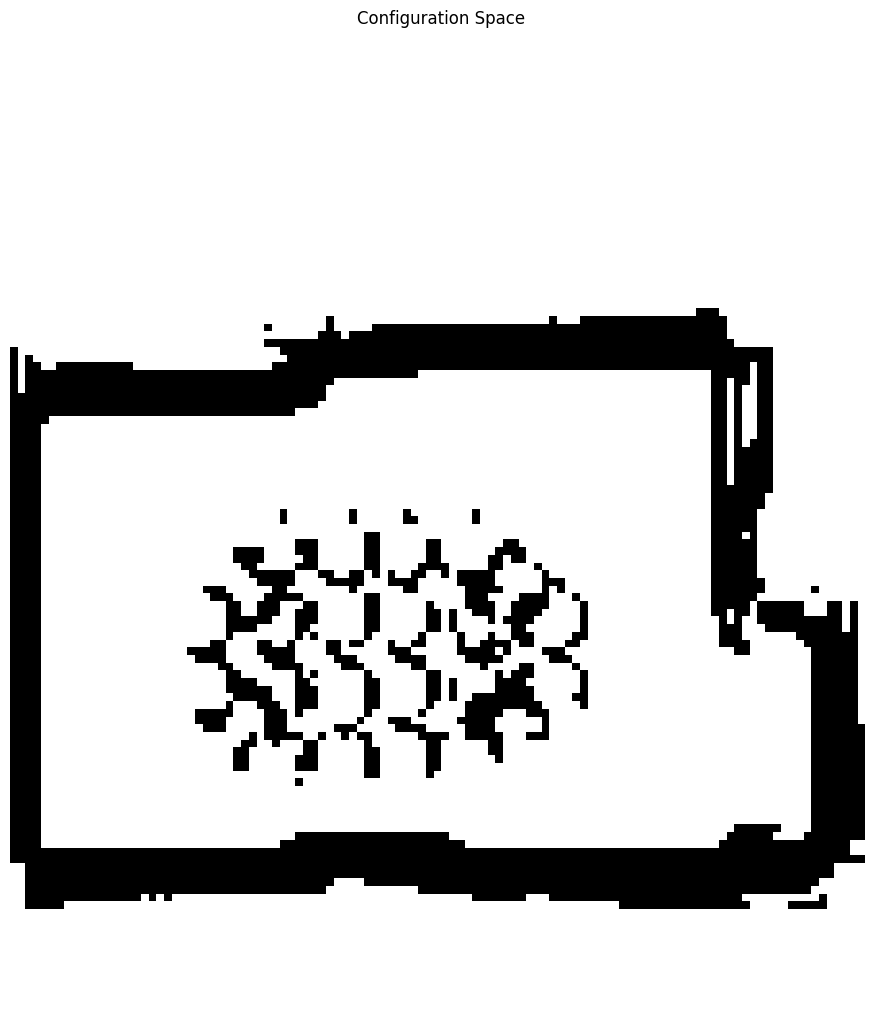
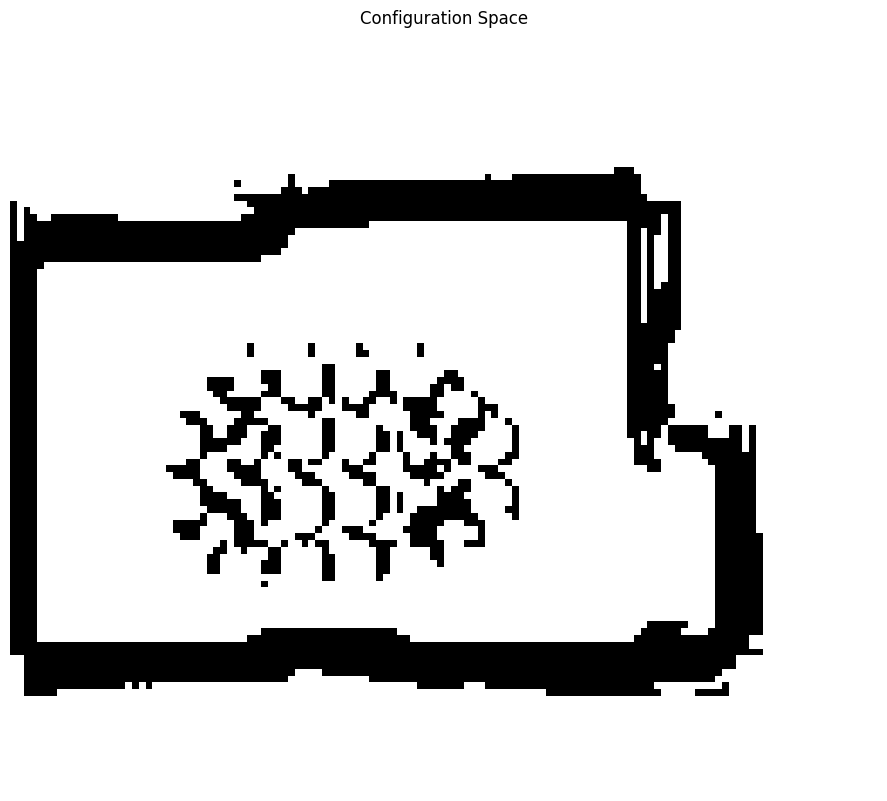
Brasenham Line mapping

Changed region(s): [[0.0, 0.1873, 0.9796, 0.9051], [0.398, 0.0, 0.6122, 0.0312]]

diff --git a/Mapping/controllers/my_brasenham_controller/my_brasenham_controller.py b/Mapping/controllers/my_brasenham_controller/my_brasenham_controller.py
@@ -53,8 +53,8 @@ class ProbabilisticOccupancyMap:
     GRID_HEIGHT = int(np.ceil(MAP_Y_DIM_METERS / MAP_RESOLUTION)) # GRID_HEIGHT now refers to Y-dimension
 
     # Log-odds update values
-    LOG_ODDS_OCCUPIED = np.log(0.99 / 0.01)
-    LOG_ODDS_FREE = np.log(0.01 / 0.99)
+    LOG_ODDS_OCCUPIED = np.log(0.9 / 0.1)
+    LOG_ODDS_FREE = np.log(0.1 / 0.9) / 10.0
     LOG_ODDS_CLAMP_MAX = 5.0
     LOG_ODDS_CLAMP_MIN = -5.0
 
@@ -66,7 +66,7 @@ class ProbabilisticOccupancyMap:
     OUTPUT_DIR = "map_outputs"
 
     def __init__(self, robot_radius):
-        self.map_data = np.zeros((self.GRID_WIDTH, self.GRID_HEIGHT), dtype=np.float32)
+        self.map_data = np.zeros((self.GRID_HEIGHT, self.GRID_WIDTH), dtype=np.float32)
         self.robot_radius = robot_radius # Robot radius for obstacle growing
         self._create_output_dir()
         print(f"Probabilistic_Occupancy_Map initialized. Map: {self.GRID_WIDTH}x{self.GRID_HEIGHT} cells. Output: '{self.OUTPUT_DIR}'")
@@ -82,6 +82,10 @@ class ProbabilisticOccupancyMap:
         """Converts world coordinates (x, y) to grid coordinates (col, row)."""
         col = int((x_world - ProbabilisticOccupancyMap.MAP_ORIGIN_X) / ProbabilisticOccupancyMap.MAP_RESOLUTION)
         row = int((y_world - ProbabilisticOccupancyMap.MAP_ORIGIN_Y) / ProbabilisticOccupancyMap.MAP_RESOLUTION)
+        
+        col = max(0, min(col, ProbabilisticOccupancyMap.GRID_WIDTH - 1))
+        row = max(0, min(row, ProbabilisticOccupancyMap.GRID_HEIGHT - 1))
+    
         return col, row
 
     @staticmethod
@@ -111,22 +115,21 @@ class ProbabilisticOccupancyMap:
     @staticmethod
     def _bresenham_line(x0, y0, x1, y1):
         """Yields (x, y) coordinates for a line using Bresenham's algorithm."""
+        points = []
         dx = abs(x1 - x0)
-        dy = abs(y1 - y0)
+        dy = -abs(y1 - y0)
         sx = 1 if x0 < x1 else -1
         sy = 1 if y0 < y1 else -1
-        err = dx - dy
-
-        points = []
+        err = dx + dy
         while True:
             points.append((x0, y0))
             if x0 == x1 and y0 == y1:
                 break
             e2 = 2 * err
-            if e2 > -dy:
-                err -= dy
+            if e2 >= dy:
+                err += dy
                 x0 += sx
-            if e2 < dx:
+            if e2 <= dx:
                 err += dx
                 y0 += sy
         return points
@@ -141,15 +144,17 @@ class ProbabilisticOccupancyMap:
 
         # Define the number of readings to exclude from each end
         EXCLUDE_READINGS = 80
-
+        angles = np.linspace(lidar_field_of_view/2, -lidar_field_of_view/2, lidar_horizontal_resolution) #[EXCLUDE_READINGS:-EXCLUDE_READINGS]
+        ranges = lidar_range_image #[EXCLUDE_READINGS:-EXCLUDE_READINGS]
+        
         # Adjust the range of the loop to skip the first and last EXCLUDE_READINGS
         # The loop will now iterate from EXCLUDE_READINGS up to (lidar_horizontal_resolution - EXCLUDE_READINGS - 1)
         for i in range(EXCLUDE_READINGS, lidar_horizontal_resolution - EXCLUDE_READINGS):
-            ray_angle_relative_to_lidar = -lidar_field_of_view / 2 + i * (lidar_field_of_view / (lidar_horizontal_resolution - 1))
+            ray_angle_relative_to_lidar = angles[i] #-lidar_field_of_view / 2 + i * (lidar_field_of_view / (lidar_horizontal_resolution - 1))
             absolute_ray_angle = self._normalize_angle(robot_heading + ray_angle_relative_to_lidar)
             #absolute_ray_angle = robot_heading + ray_angle_relative_to_lidar 
 
-            distance = lidar_range_image[i]
+            distance = ranges[i]
             
             effective_distance = distance
             if math.isinf(distance) or distance > lidar_max_range:
@@ -164,19 +169,19 @@ class ProbabilisticOccupancyMap:
             hit_x = self._clamp_world_coordinate(hit_x_unclamped, self.MAP_ORIGIN_X, self.MAP_X_DIM_METERS)
             hit_y = self._clamp_world_coordinate(hit_y_unclamped, self.MAP_ORIGIN_Y, self.MAP_Y_DIM_METERS)
             
-            hit_grid_row, hit_grid_col = self._world_to_grid(hit_x, hit_y)
+            hit_grid_col, hit_grid_row = self._world_to_grid(hit_x, hit_y)
 
             # Ensure hit point is within grid boundaries for Bresenham
-            hit_grid_row = self._clamp(hit_grid_row, 0, self.GRID_WIDTH - 1)
-            hit_grid_col = self._clamp(hit_grid_col, 0, self.GRID_HEIGHT - 1)
+            hit_grid_row = self._clamp(hit_grid_row, 0, self.GRID_HEIGHT - 1)
+            hit_grid_col = self._clamp(hit_grid_col, 0, self.GRID_WIDTH - 1)
             
             # Generate cells along the ray from robot to hit point (or max_range point)
-            ray_cells = self._bresenham_line(robot_grid_row, robot_grid_col, hit_grid_row, hit_grid_col)
+            ray_cells = self._bresenham_line(robot_grid_col, robot_grid_row, hit_grid_col, hit_grid_row)
             #print("grid col row", robot_grid_col, robot_grid_row, hit_grid_col, hit_grid_row, len(ray_cells))
 
             # --- Unified Free and Occupied Space Marking Logic ---
-            for row, col in ray_cells:
-                if 0 <= col < self.GRID_HEIGHT and 0 <= row < self.GRID_WIDTH:
+            for col, row in ray_cells:
+                if 0 <= col < self.GRID_WIDTH and 0 <= row < self.GRID_HEIGHT:
                     is_hit_cell = (col == hit_grid_col and row == hit_grid_row)
                     
                     if is_hit_cell and not math.isinf(distance) and distance <= lidar_max_range:
@@ -532,30 +537,60 @@ class TaigoliteController:
             self.trajectory_finished = True
 
     def _display_webots_map(self, map_data):
-        """Displays the given map on the Webots map_display device."""
+        """
+        Displays the given map on the Webots 'display' device with scaling
+        to fill the entire display area, regardless of map resolution.
+        """
         if not self.display:
             return
         
-        # Grid (col, row) maps to (x_grid, y_grid) where x_grid is horizontal, y_grid is vertical
-        # Webots Display (0,0) is top-left, our map (0,0) is bottom-left
-        # We need to flip the y-axis for display in Webots
-        
+        # 1. Get the actual dimensions of the Webots Display node
+        display_width = self.display.getWidth()
+        display_height = self.display.getHeight()
+
+        # 2. Calculate scaling factors
+        # These factors determine how many display pixels correspond to one map grid cell
+        scale_x = display_width / self.occupancy_map.GRID_WIDTH
+        scale_y = display_height / self.occupancy_map.GRID_HEIGHT
+
+        # 3. Clear the display before drawing the new map frame
+        self.display.setColor(0x000000) # Black background
+        self.display.fillRectangle(0, 0, display_width, display_height)
+
+        # 4. Iterate through grid cells and draw scaled rectangles
         for y_grid in range(self.occupancy_map.GRID_HEIGHT): # Iterate through Y-dimension (rows)
             for x_grid in range(self.occupancy_map.GRID_WIDTH): # Iterate through X-dimension (columns)
-                display_x = x_grid
-                display_y = self.occupancy_map.GRID_HEIGHT - 1 - y_grid # Flip Y-axis for Webots display
-
+                # Calculate pixel color based on map data (same as before)
                 if map_data.dtype == np.float32: # Probabilistic map
-                    log_odds = map_data[x_grid, y_grid] # Access map using (col, row)
+                    log_odds = map_data[y_grid, x_grid] # Access map using (col, row) -- wrong
                     probability = self.occupancy_map._log_odds_to_probability(log_odds)
                     gray_value = int(probability * 255)
                     color = (gray_value << 16) | (gray_value << 8) | gray_value
                 else: # Binary map (C-Space)
-                    is_obstacle = map_data[x_grid, y_grid] # Access map using (col, row)
-                    color = 0x000000 if is_obstacle else 0xFFFFFF
-
+                    is_obstacle = map_data[y_grid, x_grid] # Access map using (col, row) -- wrong
+                    color = 0x000000 if is_obstacle else 0xFFFFFF # Black for obstacles, white for free
+                
                 self.display.setColor(color)
-                self.display.drawPixel(display_x, display_y)
+
+                # 5. Calculate the top-left corner of the rectangle on the display
+                #    The Y-axis is flipped because Webots Display (0,0) is top-left,
+                #    while our map's (0,0) is conceptualized as bottom-left.
+                display_rect_x = int(x_grid * scale_x)
+                #display_rect_y = int((self.occupancy_map.GRID_HEIGHT - 1 - y_grid) * scale_y)
+                display_rect_y = int(y_grid * scale_y)
+
+                # Calculate the width and height of the rectangle
+                # IMPORTANT CHANGE: Use math.ceil() to ensure coverage
+                rect_width = int(math.ceil(scale_x))
+                rect_height = int(math.ceil(scale_y))
+                
+                # 7. Ensure minimum 1 pixel size if scaling is very small
+                #    This prevents issues if scale_x or scale_y results in 0 (e.g., if display is smaller than map)
+                if rect_width == 0: rect_width = 1
+                if rect_height == 0: rect_height = 1
+
+                # 8. Draw the scaled rectangle instead of a single pixel
+                self.display.fillRectangle(display_rect_x, display_rect_y, rect_width, rect_height)
 
     # --- Main Robot Loop ---
     def run(self):
@@ -581,12 +616,12 @@ class TaigoliteController:
                 field_of_view = self.lidar.getFov()
                 max_range = self.lidar.getMaxRange()
                 
-                self.occupancy_map.update_map2(
+                self.occupancy_map.update_map(
                     robot_x, robot_y, robot_heading,
                     range_image, horizontal_resolution, 
                     field_of_view, max_range
                 )
-                #self._display_webots_map(self.occupancy_map.get_map_data())
+                self._display_webots_map(self.occupancy_map.get_map_data())
             else:
                 if not self.map_processed_and_saved:
                     print("Trajectory finished. Processing and saving maps...")

diff --git a/Mapping/controllers/my_map_controller/my_map_controller.py b/Mapping/controllers/my_map_controller/my_map_controller.py
@@ -66,7 +66,7 @@ class ProbabilisticOccupancyMap:
     OUTPUT_DIR = "map_outputs"
 
     def __init__(self, robot_radius):
-        self.map_data = np.zeros((self.GRID_WIDTH, self.GRID_HEIGHT), dtype=np.float32)
+        self.map_data = np.zeros((self.GRID_HEIGHT, self.GRID_WIDTH), dtype=np.float32)
         self.robot_radius = robot_radius # Robot radius for obstacle growing
         self._create_output_dir()
         print(f"Probabilistic_Occupancy_Map initialized. Map: {self.GRID_WIDTH}x{self.GRID_HEIGHT} cells. Output: '{self.OUTPUT_DIR}'")
@@ -133,7 +133,7 @@ class ProbabilisticOccupancyMap:
             lx, ly = lidar_hits_world[0, k], lidar_hits_world[1, k]
             px_g, py_g = self._world_to_grid(lx, ly)
             # bounds check
-            if 0 <= px_g < self.GRID_HEIGHT and 0 <= py_g < self.GRID_WIDTH:
+            if 0 <= px_g < self.GRID_WIDTH and 0 <= py_g < self.GRID_HEIGHT:
                 self.map_data[py_g, px_g] = min(self.map_data[py_g, px_g] + 0.01, 1.0)  
             
     def grow_obstacles(self):
@@ -423,12 +423,12 @@ class TaigoliteController:
             for x_grid in range(self.occupancy_map.GRID_WIDTH): # Iterate through X-dimension (columns)
                 # Calculate pixel color based on map data (same as before)
                 if map_data.dtype == np.float32: # Probabilistic map
-                    log_odds = map_data[x_grid, y_grid] # Access map using (col, row)
+                    log_odds = map_data[y_grid, x_grid] # Access map using (col, row) -- wrong
                     probability = self.occupancy_map._log_odds_to_probability(log_odds)
                     gray_value = int(probability * 255)
                     color = (gray_value << 16) | (gray_value << 8) | gray_value
                 else: # Binary map (C-Space)
-                    is_obstacle = map_data[x_grid, y_grid] # Access map using (col, row)
+                    is_obstacle = map_data[y_grid, x_grid] # Access map using (col, row) -- wrong
                     color = 0x000000 if is_obstacle else 0xFFFFFF # Black for obstacles, white for free
                 
                 self.display.setColor(color)
@@ -437,7 +437,8 @@ class TaigoliteController:
                 #    The Y-axis is flipped because Webots Display (0,0) is top-left,
                 #    while our map's (0,0) is conceptualized as bottom-left.
                 display_rect_x = int(x_grid * scale_x)
-                display_rect_y = int((self.occupancy_map.GRID_HEIGHT - 1 - y_grid) * scale_y)
+                #display_rect_y = int((self.occupancy_map.GRID_HEIGHT - 1 - y_grid) * scale_y)
+                display_rect_y = int(y_grid * scale_y)
 
                 # Calculate the width and height of the rectangle
                 # IMPORTANT CHANGE: Use math.ceil() to ensure coverage
